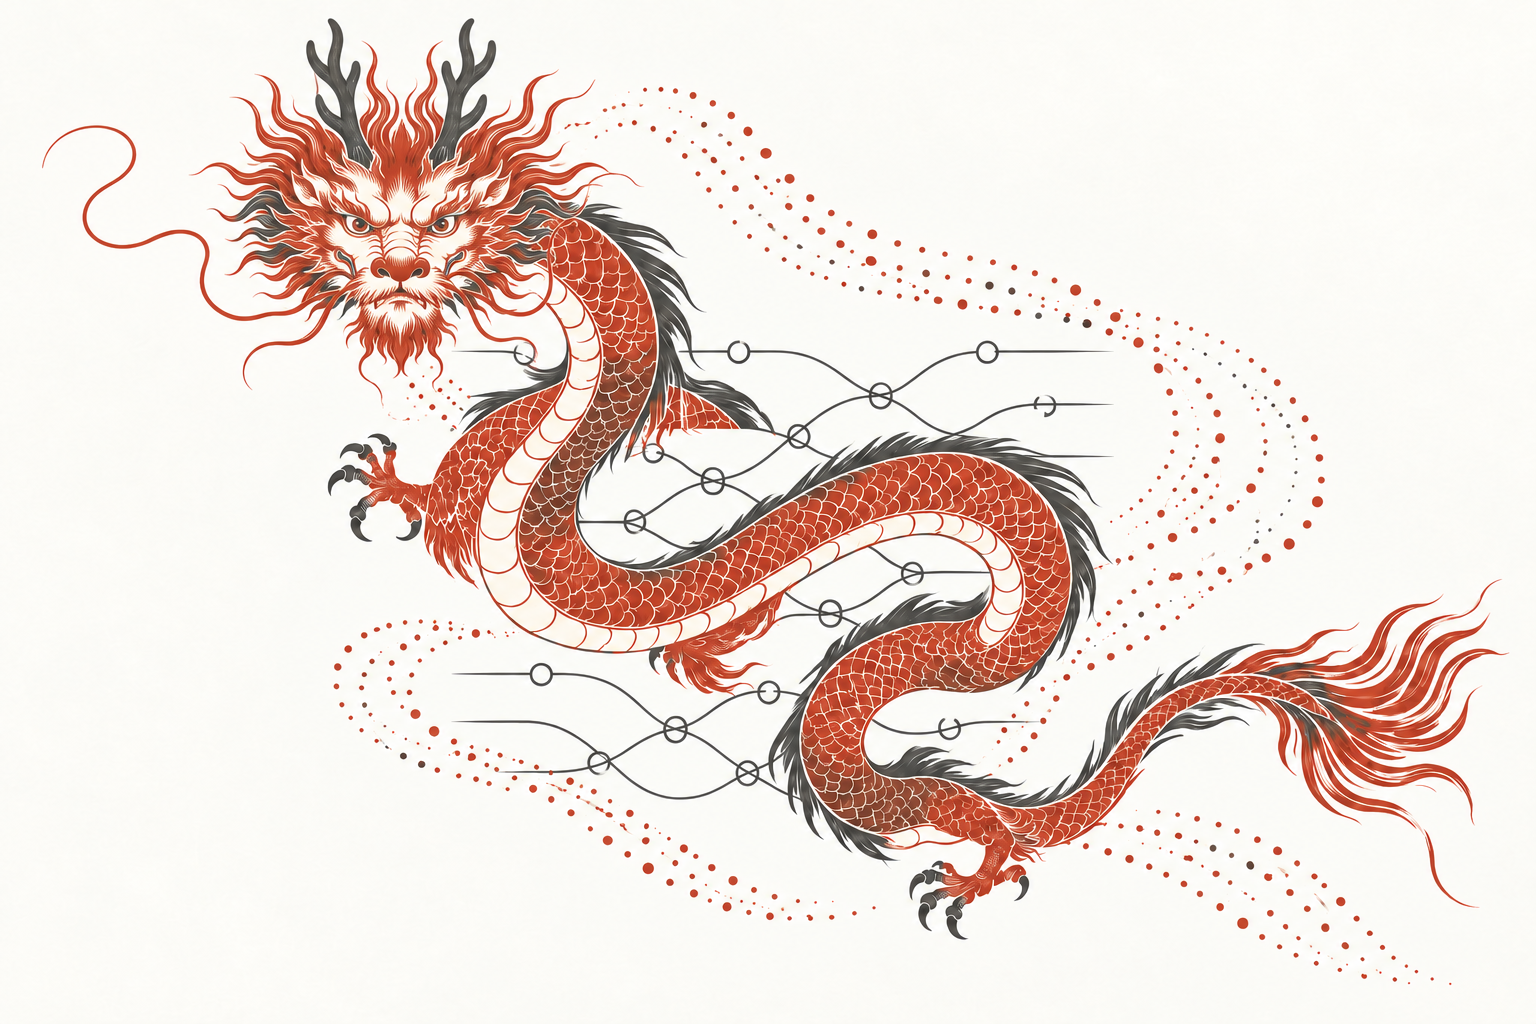
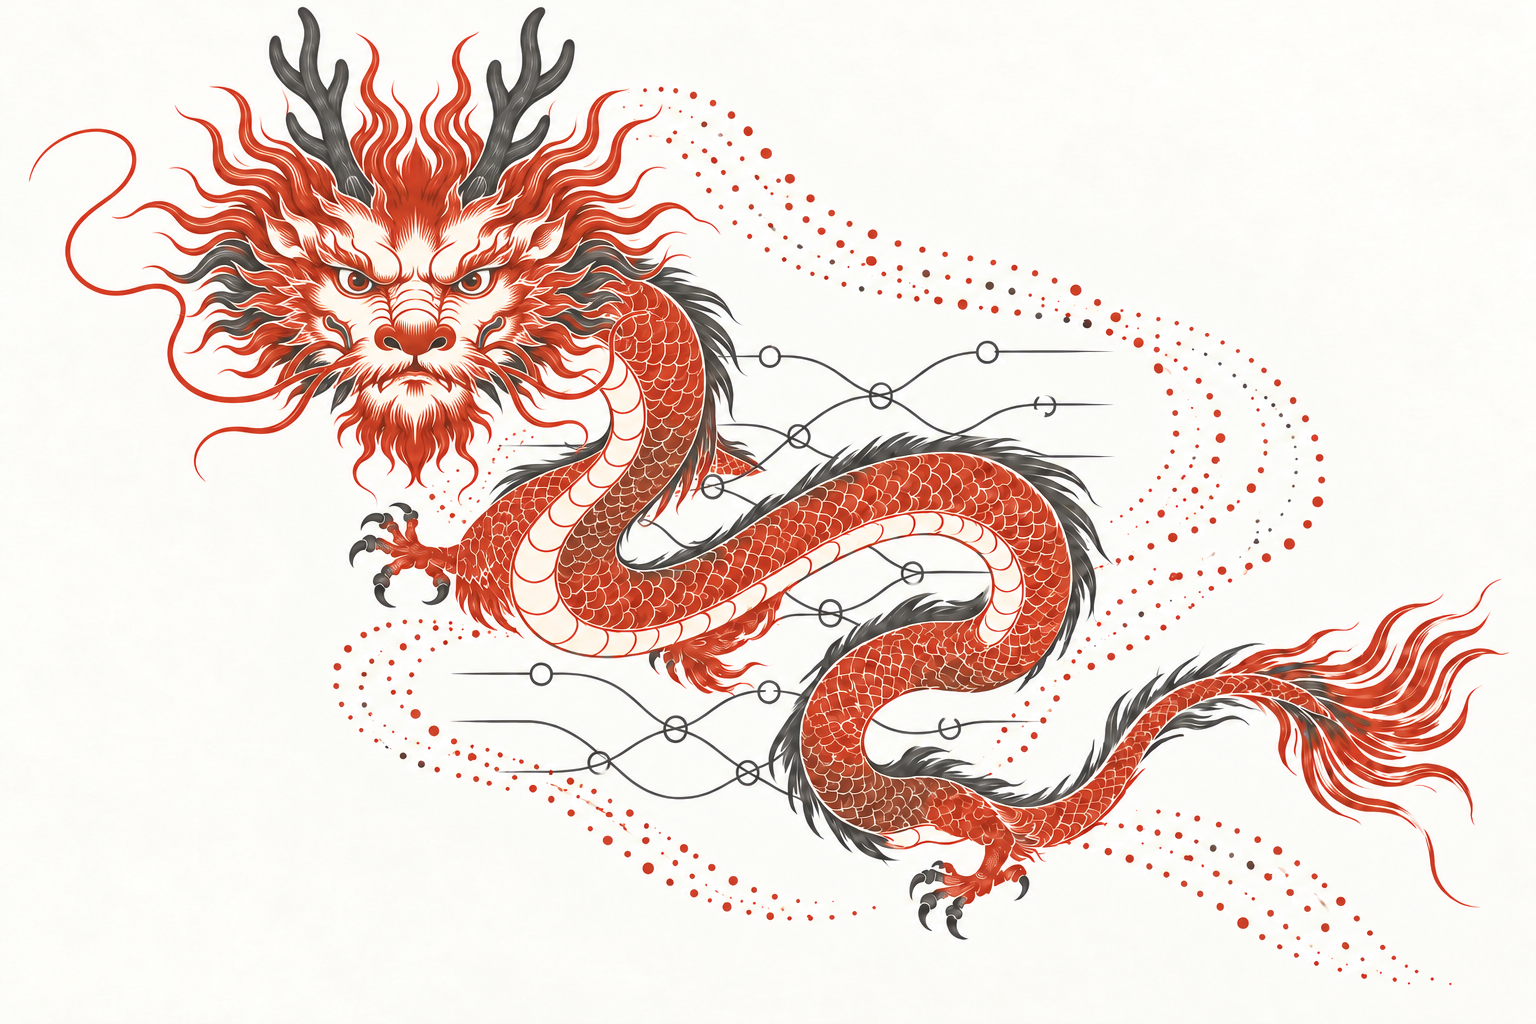
Dragon hero: enlarge the frontal head into the focal point
Edit-mode pass: the frontal dragon-dance head is now ~1.5x larger with
widened mane and antlers, making it the clear focal point; proportions
with the body and the five Update lanes read balanced. Everything else
preserved. Cache version bumped to v=4.

Changed region(s): [[0.0312, 0.0, 0.9688, 0.875], [0.4375, 0.6875, 0.4688, 0.7188]]

diff --git a/dragon/index.html b/dragon/index.html
@@ -30,7 +30,7 @@
 </div>
 
 <figure class="hero">
-<img src="hero.png?v=3" alt="A Chinese dragon with a frontal dragon-dance head facing the viewer, in terracotta red and ink gray over five braiding gray lanes with ring and knot motifs" width="1536" height="1024">
+<img src="hero.png?v=4" alt="A Chinese dragon with a frontal dragon-dance head facing the viewer, in terracotta red and ink gray over five braiding gray lanes with ring and knot motifs" width="1536" height="1024">
 <figcaption>Dragon — the Chinese dragon over the five braiding lanes of the <code>Update</code> transformation: rings mark rotations, knots mark modular additions (illustration generated for this page, 2026-10-31)</figcaption>
 </figure>
 

diff --git a/dragon/index.zh.html b/dragon/index.zh.html
@@ -30,7 +30,7 @@
 </div>
 
 <figure class="hero">
-<img src="hero.png?v=3" alt="正面龙头朝向观众的赭红与墨灰中国龙，盘绕于五条交织的墨灰 lane 之上，交叉处有环形与结点母题，身后拖着点流" width="1536" height="1024">
+<img src="hero.png?v=4" alt="正面龙头朝向观众的赭红与墨灰中国龙，盘绕于五条交织的墨灰 lane 之上，交叉处有环形与结点母题，身后拖着点流" width="1536" height="1024">
 <figcaption>Dragon — 中国龙盘绕于 <code>Update</code> 的五条交织 lane 之上：环形为 rotation，结点为模加（本页配图，AI 生成于 2026-10-31）</figcaption>
 </figure>
 

diff --git a/2026-10-31-log.md b/2026-10-31-log.md
@@ -192,3 +192,10 @@
 - 预期产出: 新图可见。
 - 实际产出: 完成。
 - 查看位置: dragon/index{,.zh}.html
+
+## [2026-10-31 15:16:17] (dragon-hero 续) Step 4: 龙头改为正面朝向观众
+- 做了什么: edit 模式再生成 (48.5s), 仅将龙头改为对称正面舞龙式 (双角/外须/鬃/双目前视), 其余保留; QA 通过; 替换 hero.png, img 版本号 v=2→v=3, 两语言 alt 更新; commit+push+Pages 验证。
+- 全局作用: 龙头面对观众, 更有存在感。
+- 预期产出: 新图全员立即可见。
+- 实际产出: 完成。
+- 查看位置: https://hukaisdu.github.io/ngcc-dragon-thunder/dragon/
